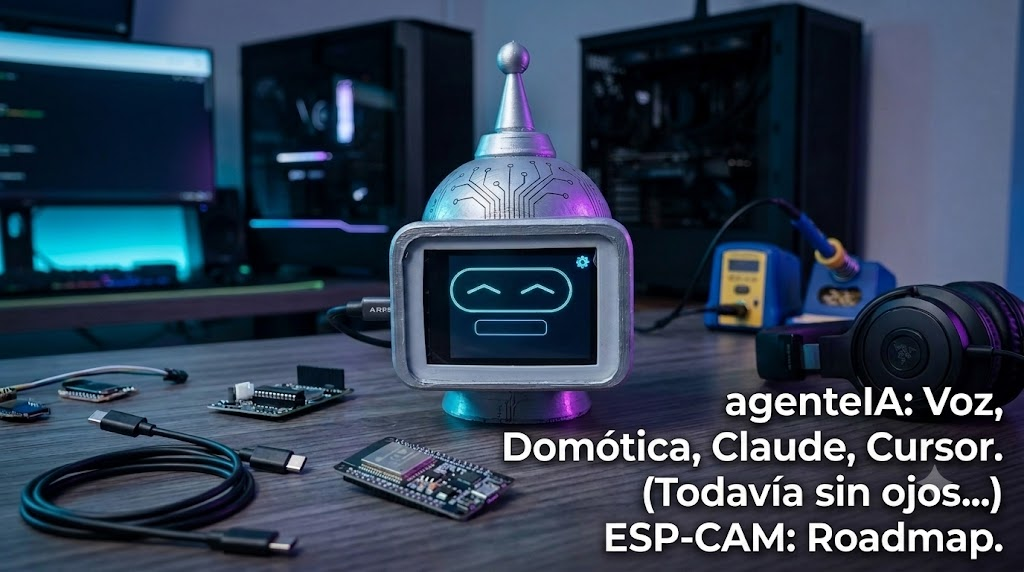
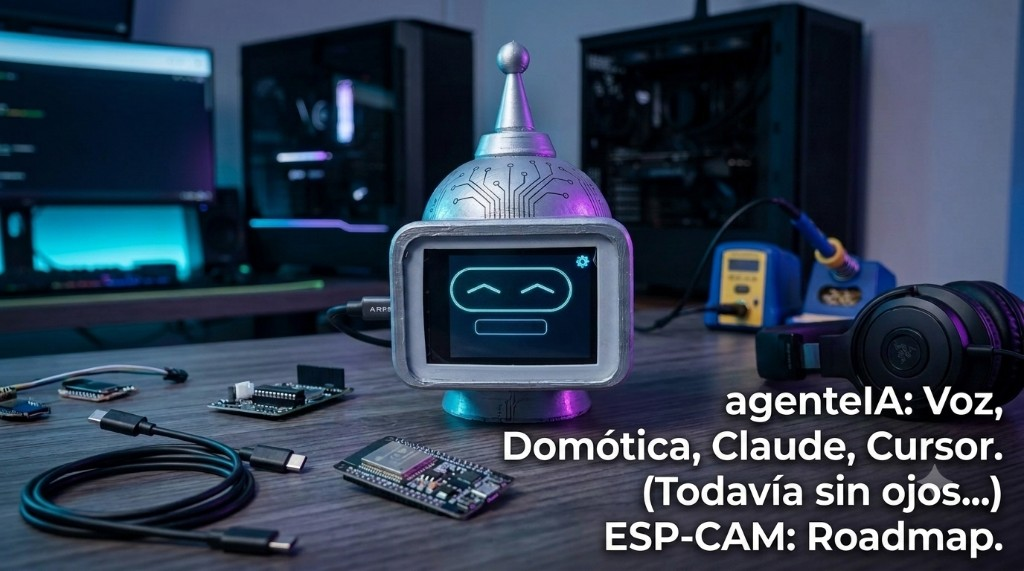
docs: README con tabla de funciones e imagenes por emocion

diff --git a/README.md b/README.md
@@ -2,42 +2,63 @@
 **[Español](#-español) · [English](#-english)**
 
 <p align="center">
-  <img src="docs/images/hero.png" alt="agenteIA — cabeza robot 3D con pantalla ESP32-S3 en el banco de trabajo" width="900">
+  <img src="docs/images/hero.png" alt="agenteIA — cabeza robot 3D con pantalla ESP32-S3 en el escritorio" width="900">
 </p>
 
 <p align="center">
-  <em>Voz · Domótica · Claude · Cursor · (todavía sin ojos — ESP-CAM en camino)</em>
+  <strong>ChatGPT con cuerpo</strong> · voz · cara · personalidad · domótica · Cursor · Claude<br>
+  <em>(todavía sin ojos — ESP-CAM en camino)</em>
 </p>
 
 ---
 
 # 🇪🇸 Español
 
-# agenteIA — Personaje virtual con emociones
+# agenteIA — Asistente conversacional con cara
 
-Cabeza impresa en 3D con pantalla de 2.8": **12 caras**, voz y actitud de Bender.
-Una placa ESP32-S3 es la cara y los oídos; una PC en la red local corre el cerebro
-(Whisper + Ollama + TTS). También avisa en voz alta cuando **Cursor** o **Claude**
-se traba, piden permiso o te cortan el rate limit.
+Cabeza impresa en 3D con pantalla táctil de 2.8": **12 emociones**, voz de personaje (TTS + RVC) y actitud configurable.
+Un ESP32-S3 es la cara y los oídos; una PC en la red local corre el cerebro (Whisper + Ollama + TTS).
+Le hablas como a un asistente de IA — te responde **hablando**, con gestos y personalidad.
+
+También **controla tu casa** (Home Assistant), **busca música** en YouTube, narra **historias con emociones sincronizadas** y te **avisa en voz alta** cuando **Cursor** o **Claude** se traba, piden permiso o te cortan el rate limit.
+
+## Qué puede hacer
+
+| Área | Ejemplos |
+|------|----------|
+| **Conversación** | Preguntas abiertas, chistes, consejos, hora, memoria de tu nombre |
+| **Personalidades** | Bender, Burro, J.A.R.V.I.S., asistente amigable, técnico, compañero curioso |
+| **Voz** | TTS (SAPI / Edge / Piper) + conversión RVC al timbre del personaje |
+| **Domótica** | «Prende la luz del estudio», escenas, clima, «¿quién está en casa?» |
+| **Música** | «Reproduce Pink Floyd» → suena en el parlante del robot (cara *vibing*) |
+| **IDE** | Hooks → `POST /api/dev/notify` → voz + emoción cuando Cursor/Claude te necesita |
+| **Táctil** | Despertar, caricia, golpe, menú de ajustes en pantalla |
+
+## Emociones en pantalla
+
+Parpadeo, mirada viva y boca al hablar. Prototipo real — cuatro caras del personaje:
 
 <p align="center">
-  <img src="docs/images/emociones.png" alt="Cuatro emociones del personaje: neutral, enojado, mareado y neutral" width="420">
+  <img src="docs/images/emocion-neutral.png" alt="Neutral / escucha" width="200">
+  <img src="docs/images/emocion-enojado.png" alt="Enojado" width="200">
+  <img src="docs/images/emocion-mareado.png" alt="Mareado / confundido" width="200">
+  <img src="docs/images/emocion-activo.png" alt="Activo / respondiendo" width="200">
 </p>
+
+<p align="center"><sub>Neutral · Enojado · Mareado · Activo — 12 emociones en total (happy, sad, vibing, love…)</sub></p>
 
 ```
 ESP32-S3 (cara + oídos)               PC (cerebro)
-├── Dibuja emociones en pantalla       ├── Servidor FastAPI (server/main.py)
-├── Wake word "Hi ESP" (ESP-SR, local) ├── Whisper STT (audio -> texto)
-├── Graba voz, hace POST del WAV ──────→├── Ollama (qwen2.5:7b) -> respuesta + emoción
-└── Muestra respuesta + emoción ←──────┤── TTS (edge / Piper) -> voz
+├── 12 emociones + lip-sync            ├── FastAPI (server/main.py)
+├── Pantalla táctil + parlante         ├── Whisper → Ollama → emoción + texto
+├── Graba voz, POST /converse ────────→├── TTS + RVC → voz del personaje
+├── Música / modo historia ←───────────┤├── YouTube Music · Home Assistant
+└── Panel web en http://IP/            └── Panel admin + hooks Cursor/Claude
 ```
 
 ## Hardware
 
-[Hosyond ES3C28P](https://us.amazon.com/dp/B0FKG7WRWV): ESP32-S3, 2.8" 240x320
-IPS (ILI9341), táctil capacitivo FT6336, códec de audio ES8311 con micrófono MEMS,
-salida de parlante, 16MB flash, OPI PSRAM. Esquemático y datasheets en
-`docs/datasheets/`. Mapa de pines completo en `firmware/agente-ia/config.h`.
+[Hosyond ES3C28P](https://us.amazon.com/dp/B0FKG7WRWV): ESP32-S3, 2.8" 240×320 IPS (ILI9341), táctil FT6336, códec ES8311 (mic MEMS + parlante), 16MB flash, OPI PSRAM. Esquemático en `docs/datasheets/`. Pines en `firmware/agente-ia/config.h`.
 
 ## Servidor (PC)
 
@@ -46,78 +67,92 @@ cd server
 .\start.ps1
 ```
 
-`start.ps1` crea `.venv`, instala dependencias y levanta uvicorn. Requiere
-**Ollama** corriendo con `qwen2.5:7b`. El TTS usa **edge-tts** (voz neural
-`es-MX-DaliaNeural`, necesita internet) con fallback offline a **Piper** / SAPI.
-Whisper usa GPU (CUDA) si está disponible, si no CPU.
+`start.ps1` crea `.venv`, instala dependencias y levanta uvicorn. Requiere **Ollama** (`qwen2.5:7b` por defecto). TTS: **edge-tts** (neural, internet) con fallback **Piper** / **SAPI**. Whisper en GPU (CUDA) si hay, si no CPU.
 
-Variables: `OLLAMA_URL`, `OLLAMA_MODEL`, `WHISPER_MODEL`, `WHISPER_DEVICE`,
-`EDGE_TTS_VOICE`, `TTS_ENGINE` (`edge` | `sapi` | `piper`), `BRAIN_BIND_HOST`.
+Variables: `OLLAMA_URL`, `OLLAMA_MODEL`, `WHISPER_MODEL`, `WHISPER_DEVICE`, `EDGE_TTS_VOICE`, `TTS_ENGINE`, `BRAIN_BIND_HOST`.
 
 ### Domótica (Home Assistant)
 
-Opcional. El agente puede leer y controlar dispositivos de Home Assistant por voz
-("prende la luz del estudio"). Copiá `server/secrets.local.ps1.example` a
-`server/secrets.local.ps1` (gitignoreado) y poné tu `HA_URL` y un token de larga
-duración en `HA_TOKEN`. Si no lo configurás, el agente funciona igual sin domótica.
+Opcional. Control por voz de luces, interruptores, escenas, clima y consulta de presencia. Copia `server/secrets.local.ps1.example` → `secrets.local.ps1` con `HA_URL` y `HA_TOKEN`. Sin HA, el resto funciona igual.
+
+### Personalidades y voz
+
+Panel web `/admin`: elegir preset, editar prompt, modelo Ollama, memoria, prueba de chat. Pestaña **Voz RVC**: timbre del personaje (Bender u otros modelos), tono e índice. Seis personalidades incluidas; voz guía configurable (Edge: Dalia, Jorge, Salomé, Elvira, Elena).
 
 ## Firmware (Arduino IDE)
 
-1. Instalá el core **esp32 by Espressif 3.x** (Gestor de placas).
-2. Librerías: **LovyanGFX**, **ArduinoJson**.
-3. Abrí **`firmware/agente-ia/agente-ia.ino`**.
-4. Placa: **ESP32S3 Dev Module** — PSRAM **OPI PSRAM**, Flash **16MB**,
-   Partición **ESP SR 16M (3MB APP/7MB SPIFFS/2.9MB MODEL)** (obligatoria para
-   WakeNet; sin ella la placa entra en boot-loop con *Can not find model in partition table*).
-5. Copiá `secrets.example.h` → `secrets.h` (WiFi + URL del servidor).
+1. Core **esp32 by Espressif 3.x**
+2. Librerías: **LovyanGFX**, **ArduinoJson**
+3. Sketch: **`firmware/agente-ia/agente-ia.ino`**
+4. Placa: **ESP32S3 Dev Module** — PSRAM **OPI**, Flash **16MB**, partición **ESP SR 16M (3MB APP/7MB SPIFFS/2.9MB MODEL)**
+5. `secrets.example.h` → `secrets.h` (WiFi + URL del servidor)
 
-## Hooks de desarrollo (Cursor / Claude)
+## Hooks Cursor / Claude
 
-`POST /api/dev/notify` en el servidor: el robot habla y cambia de cara cuando el IDE
-pide permiso, un agente termina, una tool falla o Anthropic te corta el rate limit.
-Ideal para laburar con Cursor minimizado y que Bender te grite *"volvé al teclado"*.
+`POST /api/dev/notify`: el robot habla y cambia de cara cuando el IDE pide permiso, falla una tool, termina un subagente o hay rate limit. Ideal con Cursor minimizado — avisos físicos en la mesa, no solo un *ding* de Windows.
 
 ## Estado
 
-- [x] Cerebro: WAV -> Whisper -> Ollama -> `{emotion, reply}`
-- [x] Cara: **12 emociones** con parpadeo y lip-sync
-- [x] Micrófono ES8311 validado en hardware
-- [x] Despertar por toque de pantalla
-- [x] Voz de respuesta por el parlante (TTS)
+- [x] Conversación IA + memoria + 6 personalidades editables
+- [x] 12 emociones, lip-sync, efectos de sonido
+- [x] TTS + RVC + canto opcional
+- [x] Música por voz y panel web (YouTube)
+- [x] Modo historia (audio + timeline de emociones)
 - [x] Domótica opcional (Home Assistant)
-- [x] Notificaciones Cursor / Claude → voz + emoción
-- [ ] Wake word por voz estable ("Hi ESP")
+- [x] Notificaciones Cursor / Claude
+- [x] Paneles web (robot + cerebro)
+- [ ] Wake word «Hi ESP» estable por voz
 - [ ] Visión (ESP-CAM — roadmap)
 
 ---
 
 # 🇬🇧 English
 
-# agenteIA — Virtual Character with Emotions
+# agenteIA — Conversational assistant with a face
 
-A 3D-printed head with a 2.8" display: **12 faces**, voice, and Bender attitude.
-An ESP32-S3 board is the face and ears; a PC on the local network runs the brain
-(Whisper + Ollama + TTS). It also speaks up when **Cursor** or **Claude** stalls,
-asks for approval, or hits a rate limit.
+A 3D-printed head with a 2.8" touch display: **12 emotions**, character voice (TTS + RVC), and a configurable personality.
+An ESP32-S3 is the face and ears; a PC on the local network runs the brain (Whisper + Ollama + TTS).
+You talk to it like a conversational AI — it answers **out loud**, with expressions and attitude.
+
+It also **controls your home** (Home Assistant), **streams music** from YouTube, plays **story mode** with synced emotions, and **speaks up** when **Cursor** or **Claude** stalls, asks for approval, or hits a rate limit.
+
+## What it does
+
+| Area | Examples |
+|------|----------|
+| **Conversation** | Open questions, jokes, advice, time, remembers your name |
+| **Personalities** | Bender, Donkey, J.A.R.V.I.S., friendly assistant, concise tech, curious companion |
+| **Voice** | TTS (SAPI / Edge / Piper) + RVC conversion to character timbre |
+| **Home automation** | “Turn on the studio light”, scenes, climate, “who’s home?” |
+| **Music** | “Play Pink Floyd” → plays on the robot speaker (*vibing* face) |
+| **IDE** | Hooks → `POST /api/dev/notify` → voice + emotion when Cursor/Claude needs you |
+| **Touch** | Wake, pet, poke, on-screen settings |
+
+## On-screen emotions
+
+Blinking, lively eyes, and lip-sync. Real prototype — four character faces:
 
 <p align="center">
-  <img src="docs/images/emociones.png" alt="Four character emotions: neutral, angry, dizzy, neutral" width="420">
+  <img src="docs/images/emocion-neutral.png" alt="Neutral / listening" width="200">
+  <img src="docs/images/emocion-enojado.png" alt="Angry" width="200">
+  <img src="docs/images/emocion-mareado.png" alt="Dizzy / confused" width="200">
+  <img src="docs/images/emocion-activo.png" alt="Active / responding" width="200">
 </p>
 
+<p align="center"><sub>Neutral · Angry · Dizzy · Active — 12 emotions total (happy, sad, vibing, love…)</sub></p>
+
 ```
-ESP32-S3 (face + ears)                PC (brain)
-├── Paints emotions on screen          ├── FastAPI server (server/main.py)
-├── Wake word "Hi ESP" (ESP-SR, local) ├── Whisper STT (audio -> text)
-├── Records speech, POSTs the WAV ─────→├── Ollama (qwen2.5:7b) -> reply + emotion
-└── Shows reply + emotion ←────────────┤── TTS (edge / Piper) -> voice
+ESP32-S3 (face + ears)                 PC (brain)
+├── 12 emotions + lip-sync             ├── FastAPI (server/main.py)
+├── Touch display + speaker            ├── Whisper → Ollama → emotion + text
+├── Records speech, POST /converse ───→├── TTS + RVC → character voice
+├── Music / story mode ←───────────────┤├── YouTube Music · Home Assistant
+└── Web panel at http://IP/            └── Admin panel + Cursor/Claude hooks
 ```
 
 ## Hardware
 
-[Hosyond ES3C28P](https://us.amazon.com/dp/B0FKG7WRWV): ESP32-S3, 2.8" 240x320
-IPS (ILI9341), FT6336 capacitive touch, ES8311 audio codec with MEMS mic,
-speaker output, 16MB flash, OPI PSRAM. Schematic and datasheets in
-`docs/datasheets/`. Full pin map in `firmware/agente-ia/config.h`.
+[Hosyond ES3C28P](https://us.amazon.com/dp/B0FKG7WRWV): ESP32-S3, 2.8" 240×320 IPS (ILI9341), FT6336 touch, ES8311 codec (MEMS mic + speaker), 16MB flash, OPI PSRAM. Schematic in `docs/datasheets/`. Pins in `firmware/agente-ia/config.h`.
 
 ## Server (PC)
 
@@ -126,47 +161,41 @@ cd server
 .\start.ps1
 ```
 
-`start.ps1` creates `.venv`, installs deps and launches uvicorn. Requires
-**Ollama** running `qwen2.5:7b`. TTS uses **edge-tts** (neural voice
-`es-MX-DaliaNeural`, needs internet) with an offline **Piper** / SAPI fallback.
-Whisper uses the GPU (CUDA) when available, otherwise CPU.
+Creates `.venv`, installs deps, launches uvicorn. Requires **Ollama** (`qwen2.5:7b` default). TTS: **edge-tts** (neural, online) with **Piper** / **SAPI** fallback. Whisper on GPU (CUDA) when available.
 
-Env vars: `OLLAMA_URL`, `OLLAMA_MODEL`, `WHISPER_MODEL`, `WHISPER_DEVICE`,
-`EDGE_TTS_VOICE`, `TTS_ENGINE` (`edge` | `sapi` | `piper`), `BRAIN_BIND_HOST`.
+Env: `OLLAMA_URL`, `OLLAMA_MODEL`, `WHISPER_MODEL`, `WHISPER_DEVICE`, `EDGE_TTS_VOICE`, `TTS_ENGINE`, `BRAIN_BIND_HOST`.
 
 ### Home automation (Home Assistant)
 
-Optional. The agent can read and control Home Assistant devices by voice
-("turn on the studio light"). Copy `server/secrets.local.ps1.example` to
-`server/secrets.local.ps1` (gitignored) and set `HA_URL` and a long-lived
-`HA_TOKEN`. Without it, the agent runs fine without home automation.
+Optional. Voice control of lights, switches, scenes, climate, and presence queries. Copy `server/secrets.local.ps1.example` → `secrets.local.ps1` with `HA_URL` and `HA_TOKEN`.
+
+### Personalities and voice
+
+Web panel `/admin`: pick preset, edit prompt, Ollama model, memory, test chat. **RVC voice** tab: character timbre (Bender or other models), pitch and index. Six built-in personalities; guide voice via Edge (Dalia, Jorge, Salomé, Elvira, Elena).
 
 ## Firmware (Arduino IDE)
 
-1. Install the **esp32 by Espressif 3.x** core (Boards Manager).
-2. Libraries: **LovyanGFX**, **ArduinoJson**.
-3. Open **`firmware/agente-ia/agente-ia.ino`**.
-4. Board: **ESP32S3 Dev Module** — PSRAM **OPI PSRAM**, Flash **16MB**,
-   Partition **ESP SR 16M (3MB APP/7MB SPIFFS/2.9MB MODEL)** (required for
-   WakeNet; without it the board boot-loops with *Can not find model in partition table*).
-5. Copy `secrets.example.h` → `secrets.h` (WiFi + server URL).
+1. **esp32 by Espressif 3.x** core
+2. Libraries: **LovyanGFX**, **ArduinoJson**
+3. Sketch: **`firmware/agente-ia/agente-ia.ino`**
+4. Board: **ESP32S3 Dev Module** — **OPI** PSRAM, **16MB** flash, **ESP SR 16M** partition
+5. `secrets.example.h` → `secrets.h` (WiFi + server URL)
 
-## Dev hooks (Cursor / Claude)
+## Cursor / Claude hooks
 
-`POST /api/dev/notify` on the server: the robot speaks and changes expression when the
-IDE asks for permission, an agent finishes, a tool fails, or Anthropic rate-limits you.
-Handy when Cursor is minimized and Bender yells *"get back to the keyboard"*.
+`POST /api/dev/notify`: the robot speaks and changes expression when the IDE asks for permission, a tool fails, a subagent finishes, or rate limit hits. Handy with Cursor minimized — physical alerts on your desk, not just a Windows *ding*.
 
 ## Status
 
-- [x] Brain: WAV -> Whisper -> Ollama -> `{emotion, reply}`
-- [x] Face: **12 emotions** with blinking and lip-sync
-- [x] ES8311 mic validated on hardware
-- [x] Touch-to-wake
-- [x] Spoken reply through the speaker (TTS)
+- [x] AI conversation + memory + 6 editable personalities
+- [x] 12 emotions, lip-sync, sound effects
+- [x] TTS + RVC + optional singing
+- [x] Voice and web-panel music (YouTube)
+- [x] Story mode (audio + emotion timeline)
 - [x] Optional home automation (Home Assistant)
-- [x] Cursor / Claude notifications → voice + emotion
-- [ ] Stable voice wake word ("Hi ESP")
+- [x] Cursor / Claude notifications
+- [x] Web panels (device + brain)
+- [ ] Stable voice wake word (“Hi ESP”)
 - [ ] Vision (ESP-CAM — roadmap)
 
 ---